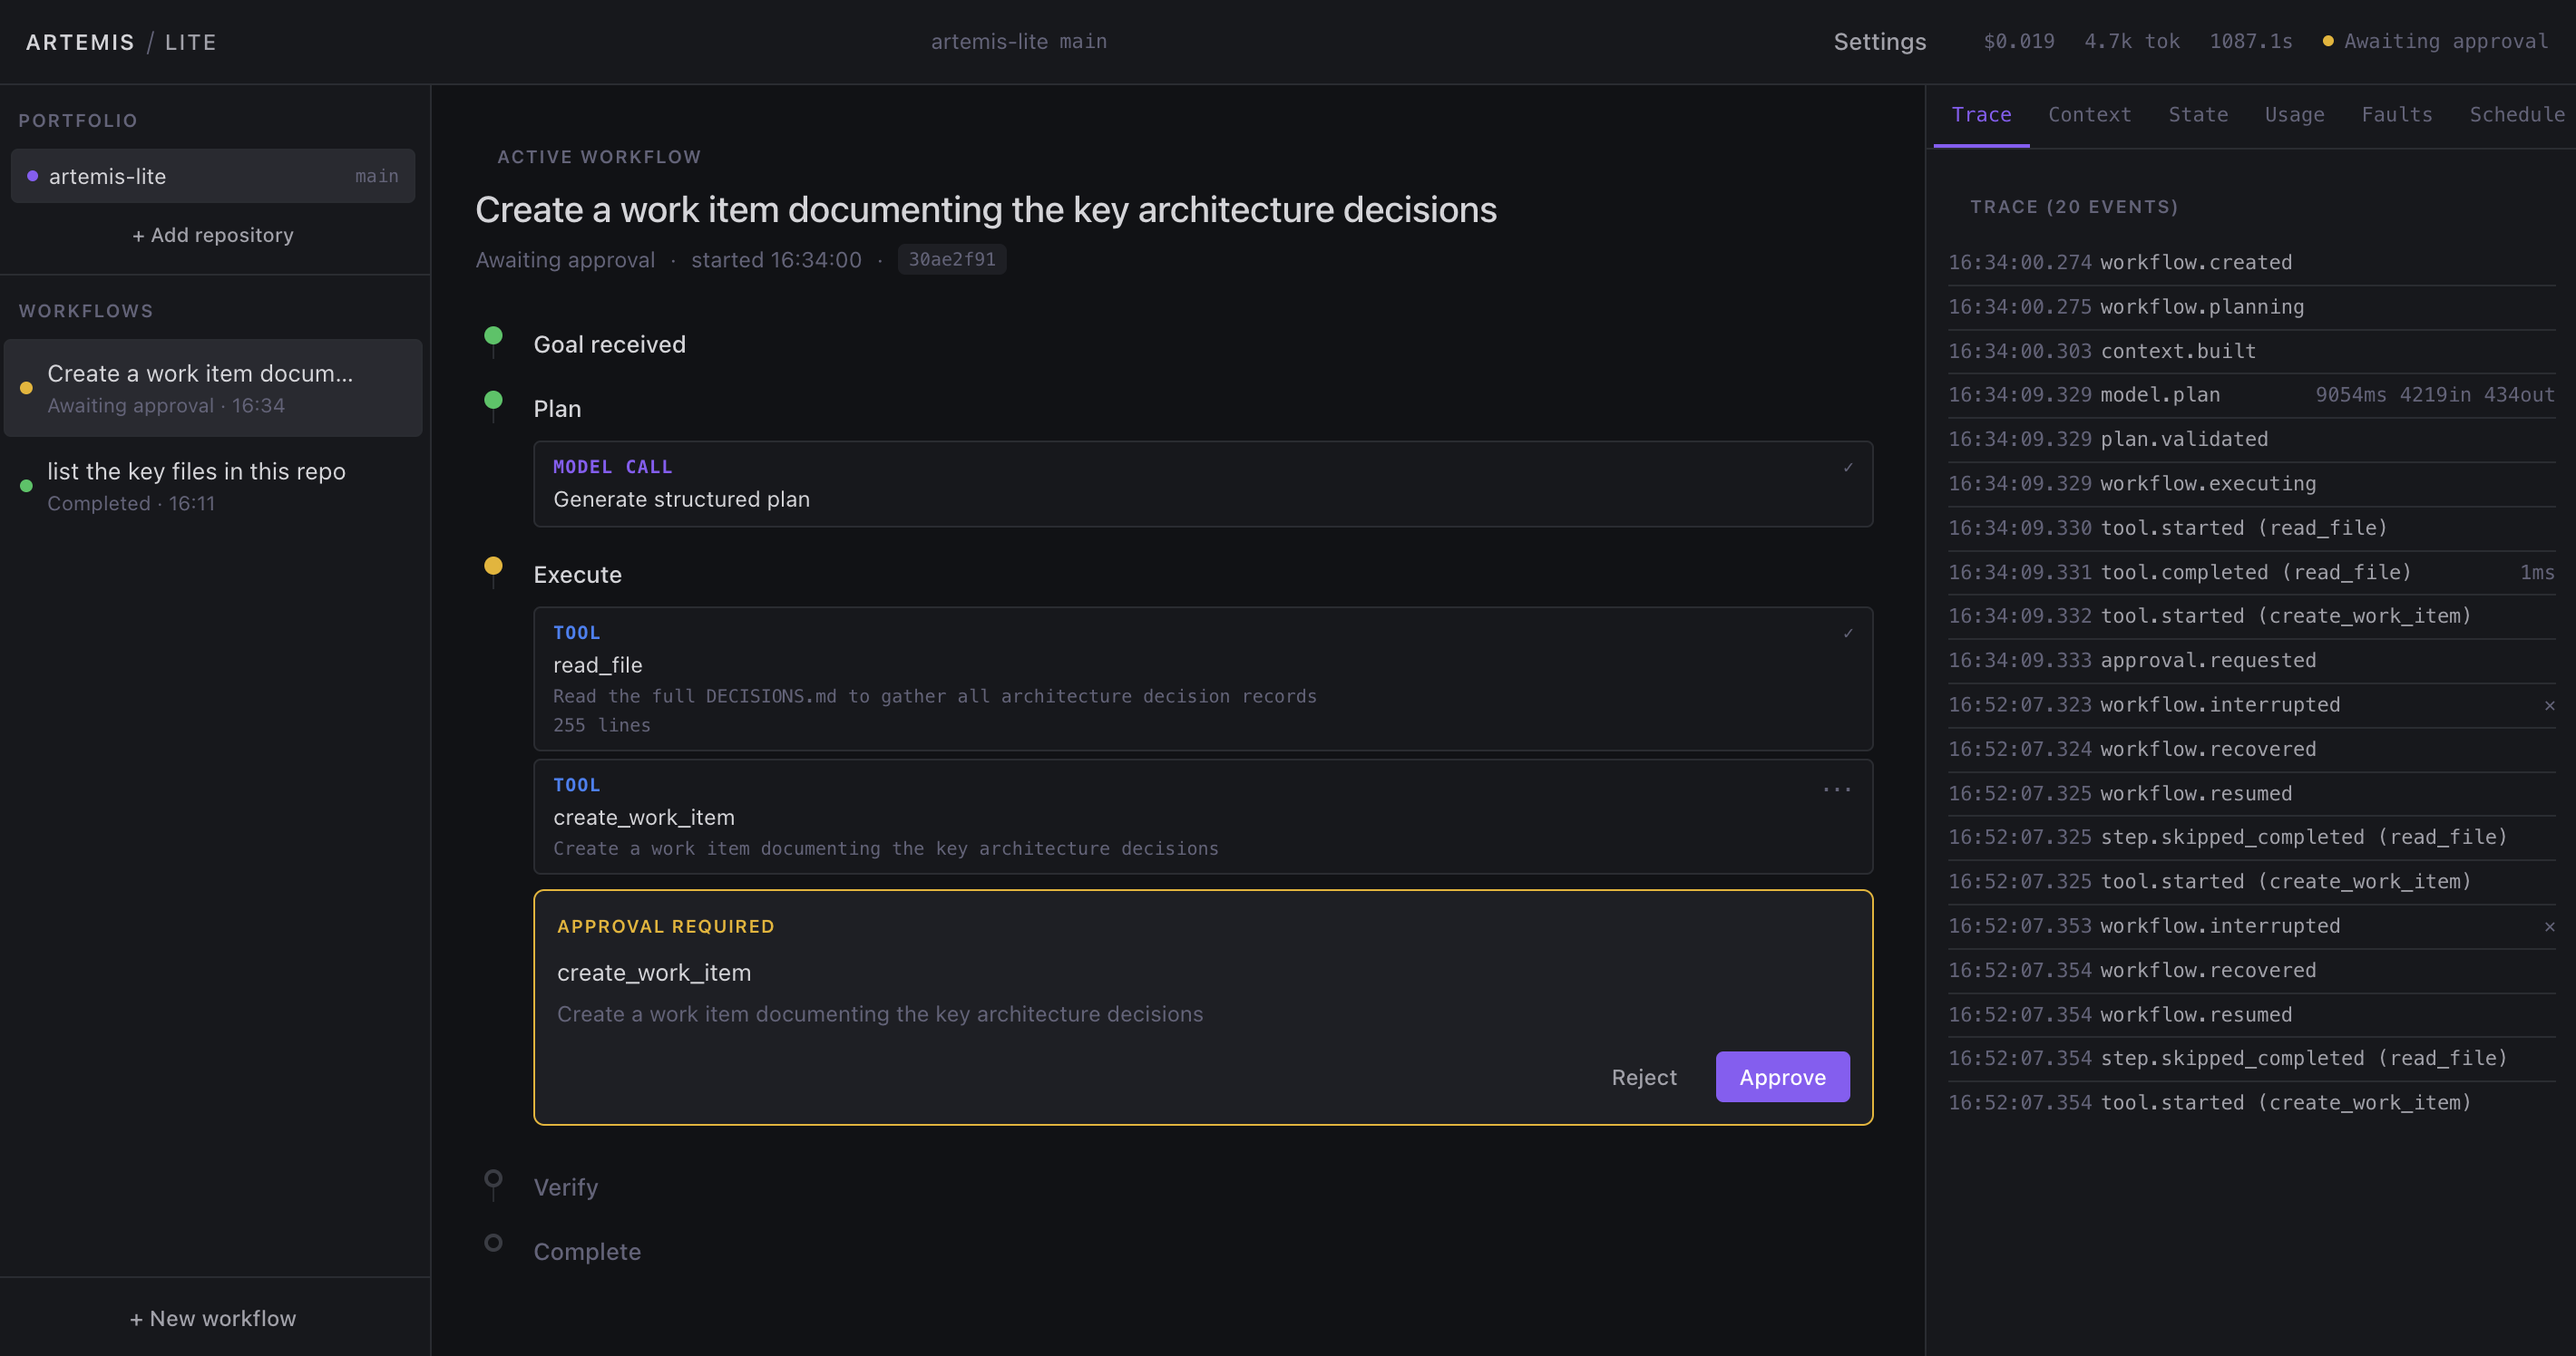
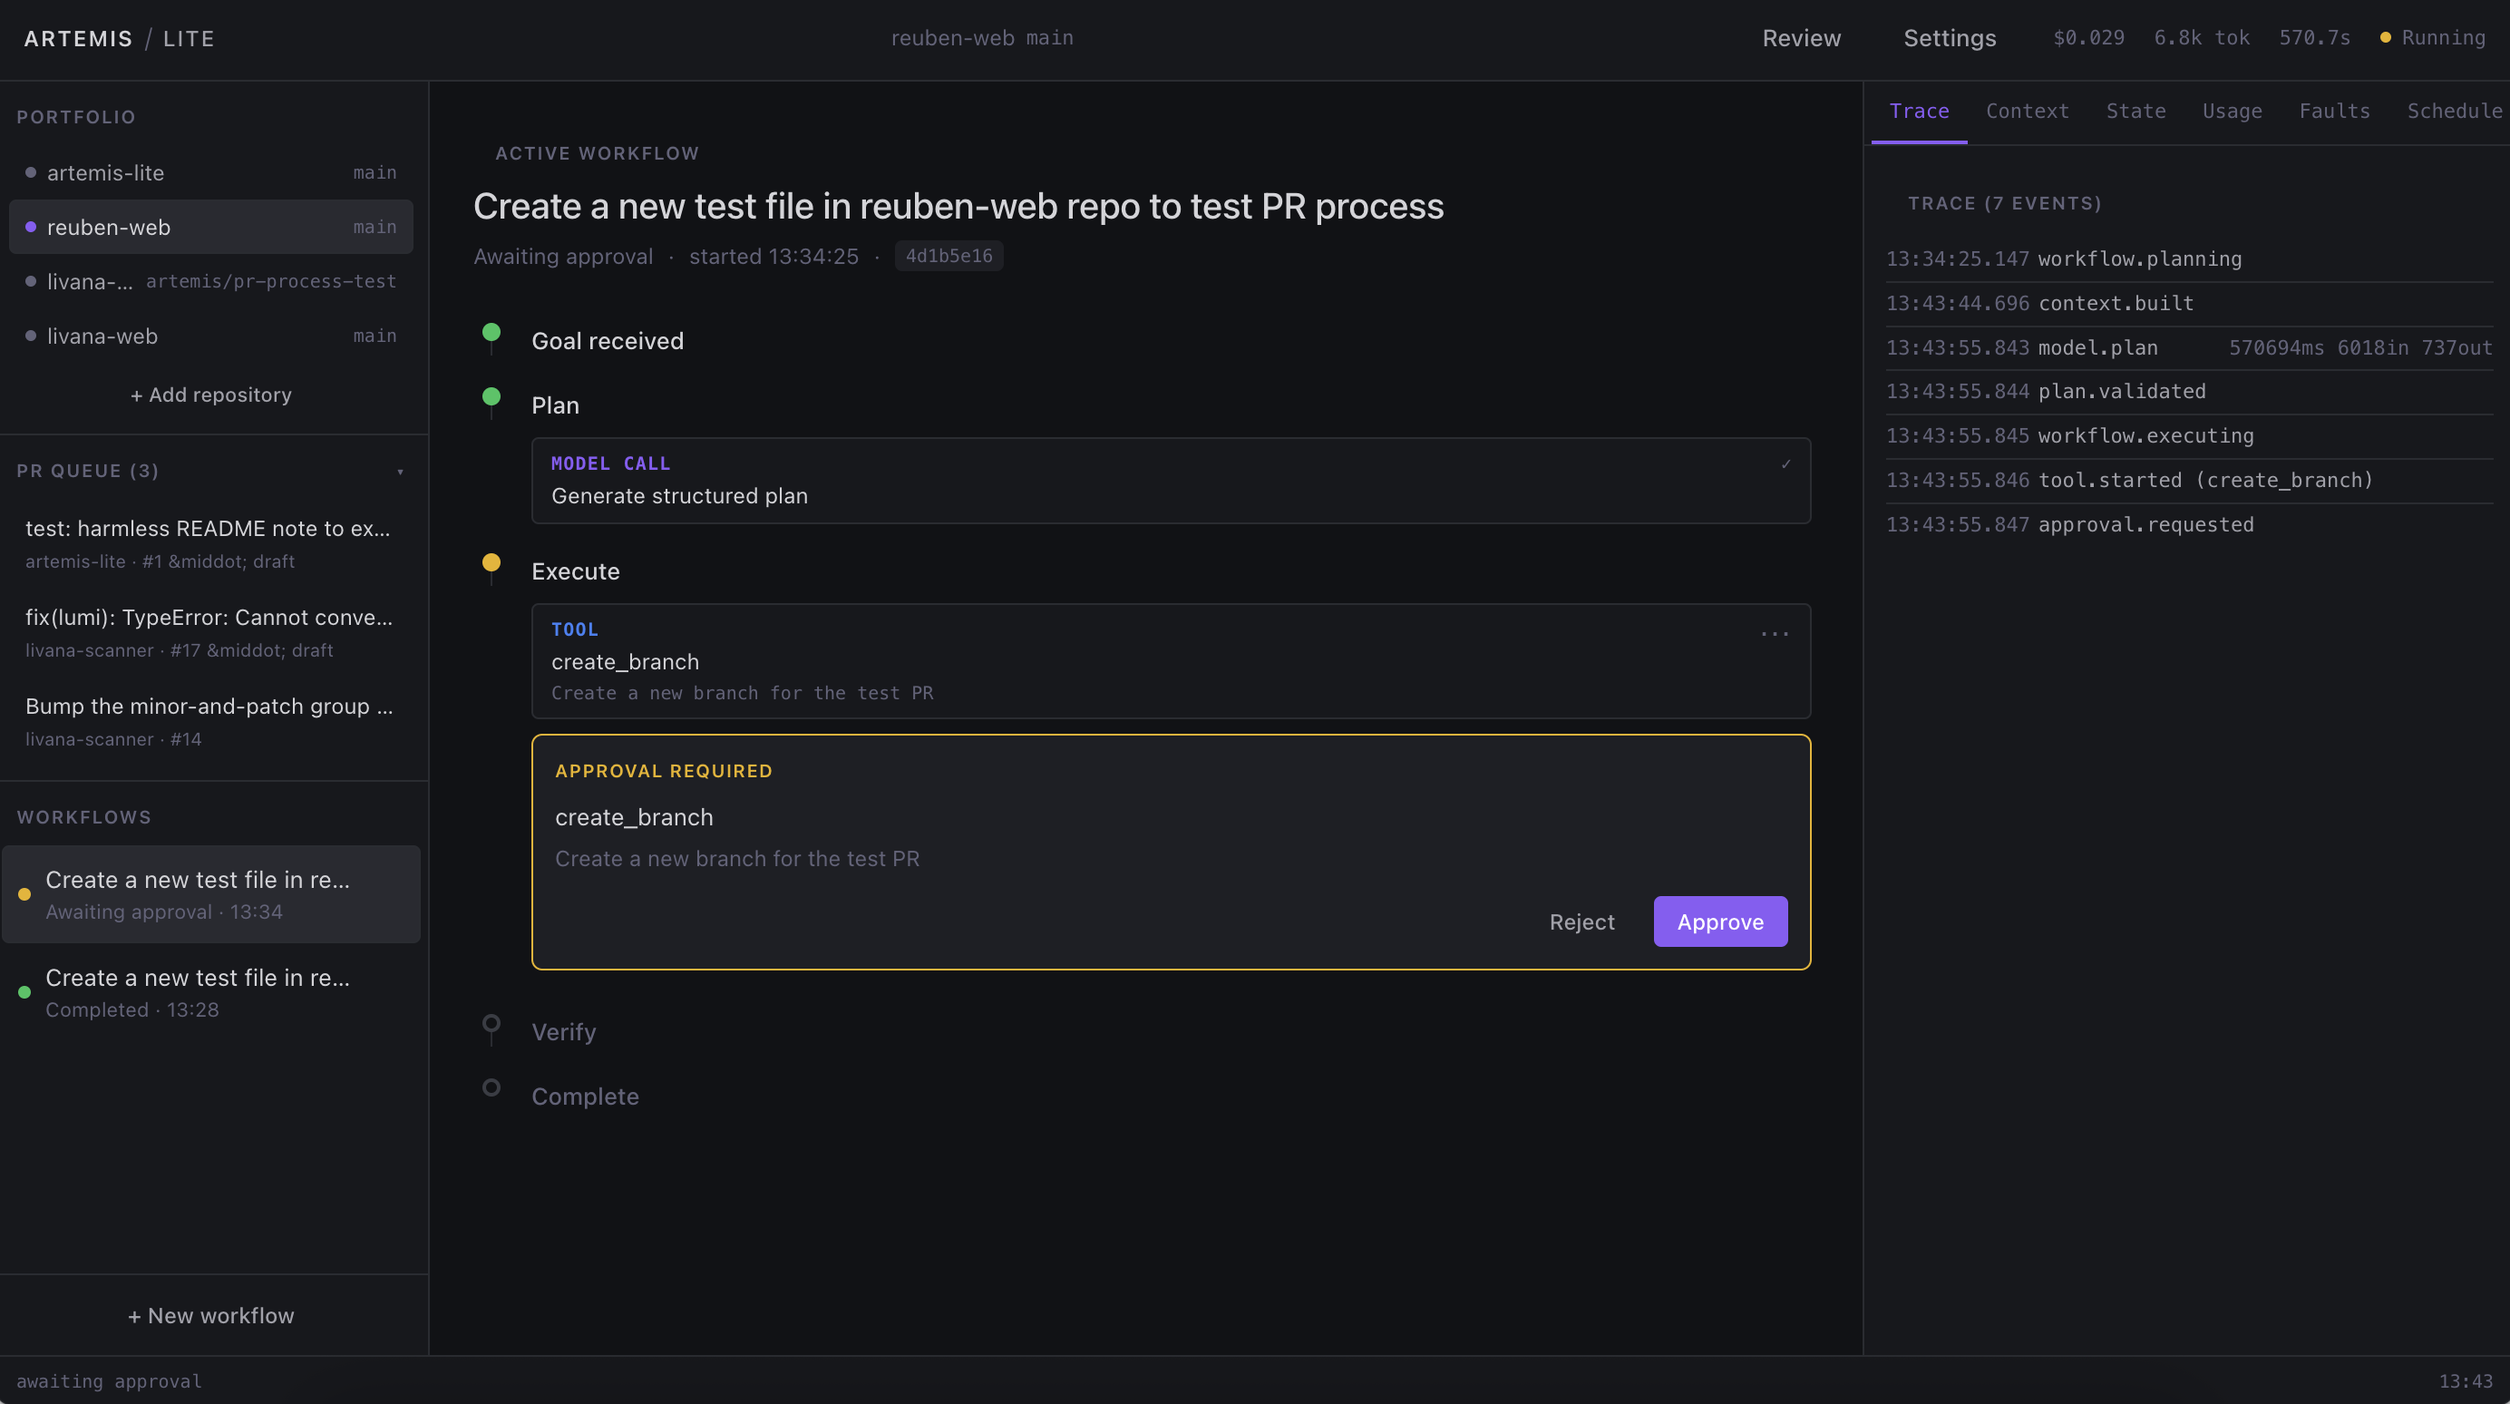
content: replace approval screenshot with real workflow, update caption
New screenshot shows create_branch approval with trace events, PR Queue,
and portfolio visible. Caption emphasises persistence across restarts.

diff --git a/work/artemis/index.html b/work/artemis/index.html
@@ -866,9 +866,9 @@
       </div>
 
       <div class="screenshot">
-        <img src="../../assets/artemis-lite-04-approval.png" alt="Artemis Lite approval gate showing create_work_item awaiting human approval with Reject and Approve buttons" style="width: 100%; display: block;">
+        <img src="../../assets/artemis-lite-04-approval.png" alt="Artemis Lite approval gate pausing a workflow at create_branch with Reject and Approve buttons, trace events visible" style="width: 100%; display: block;">
       </div>
-      <p class="screenshot-caption">Artemis can do most of the work automatically, while publishing it remains a deliberate human decision.</p>
+      <p class="screenshot-caption">Consequential actions pause on a persisted approval. The workflow resumes from exactly this point after a decision, even across restarts.</p>
     </div>
   </section>
 
